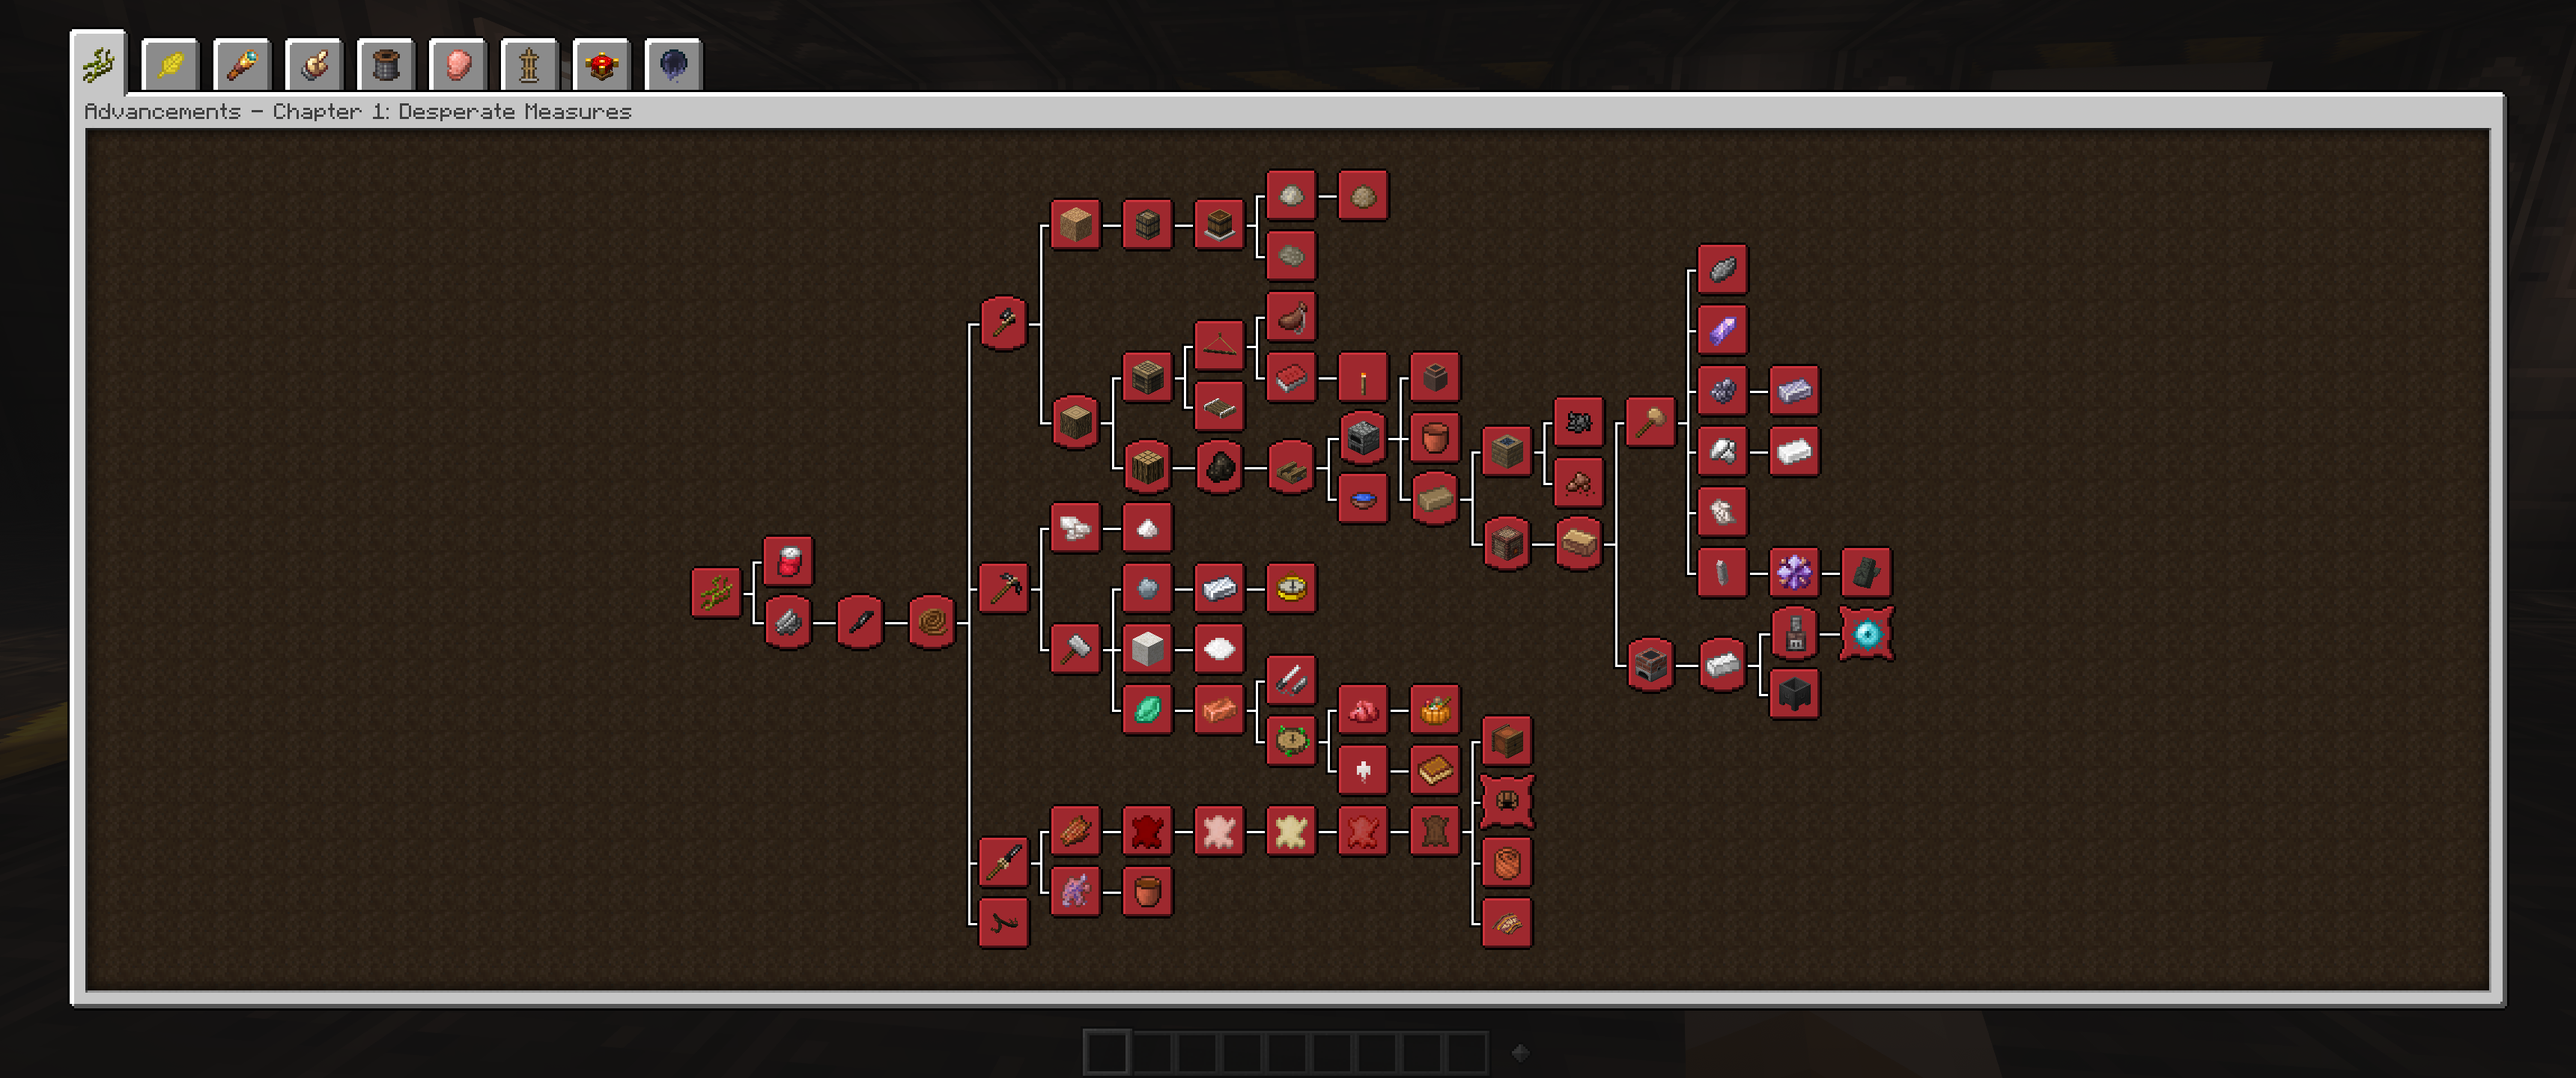
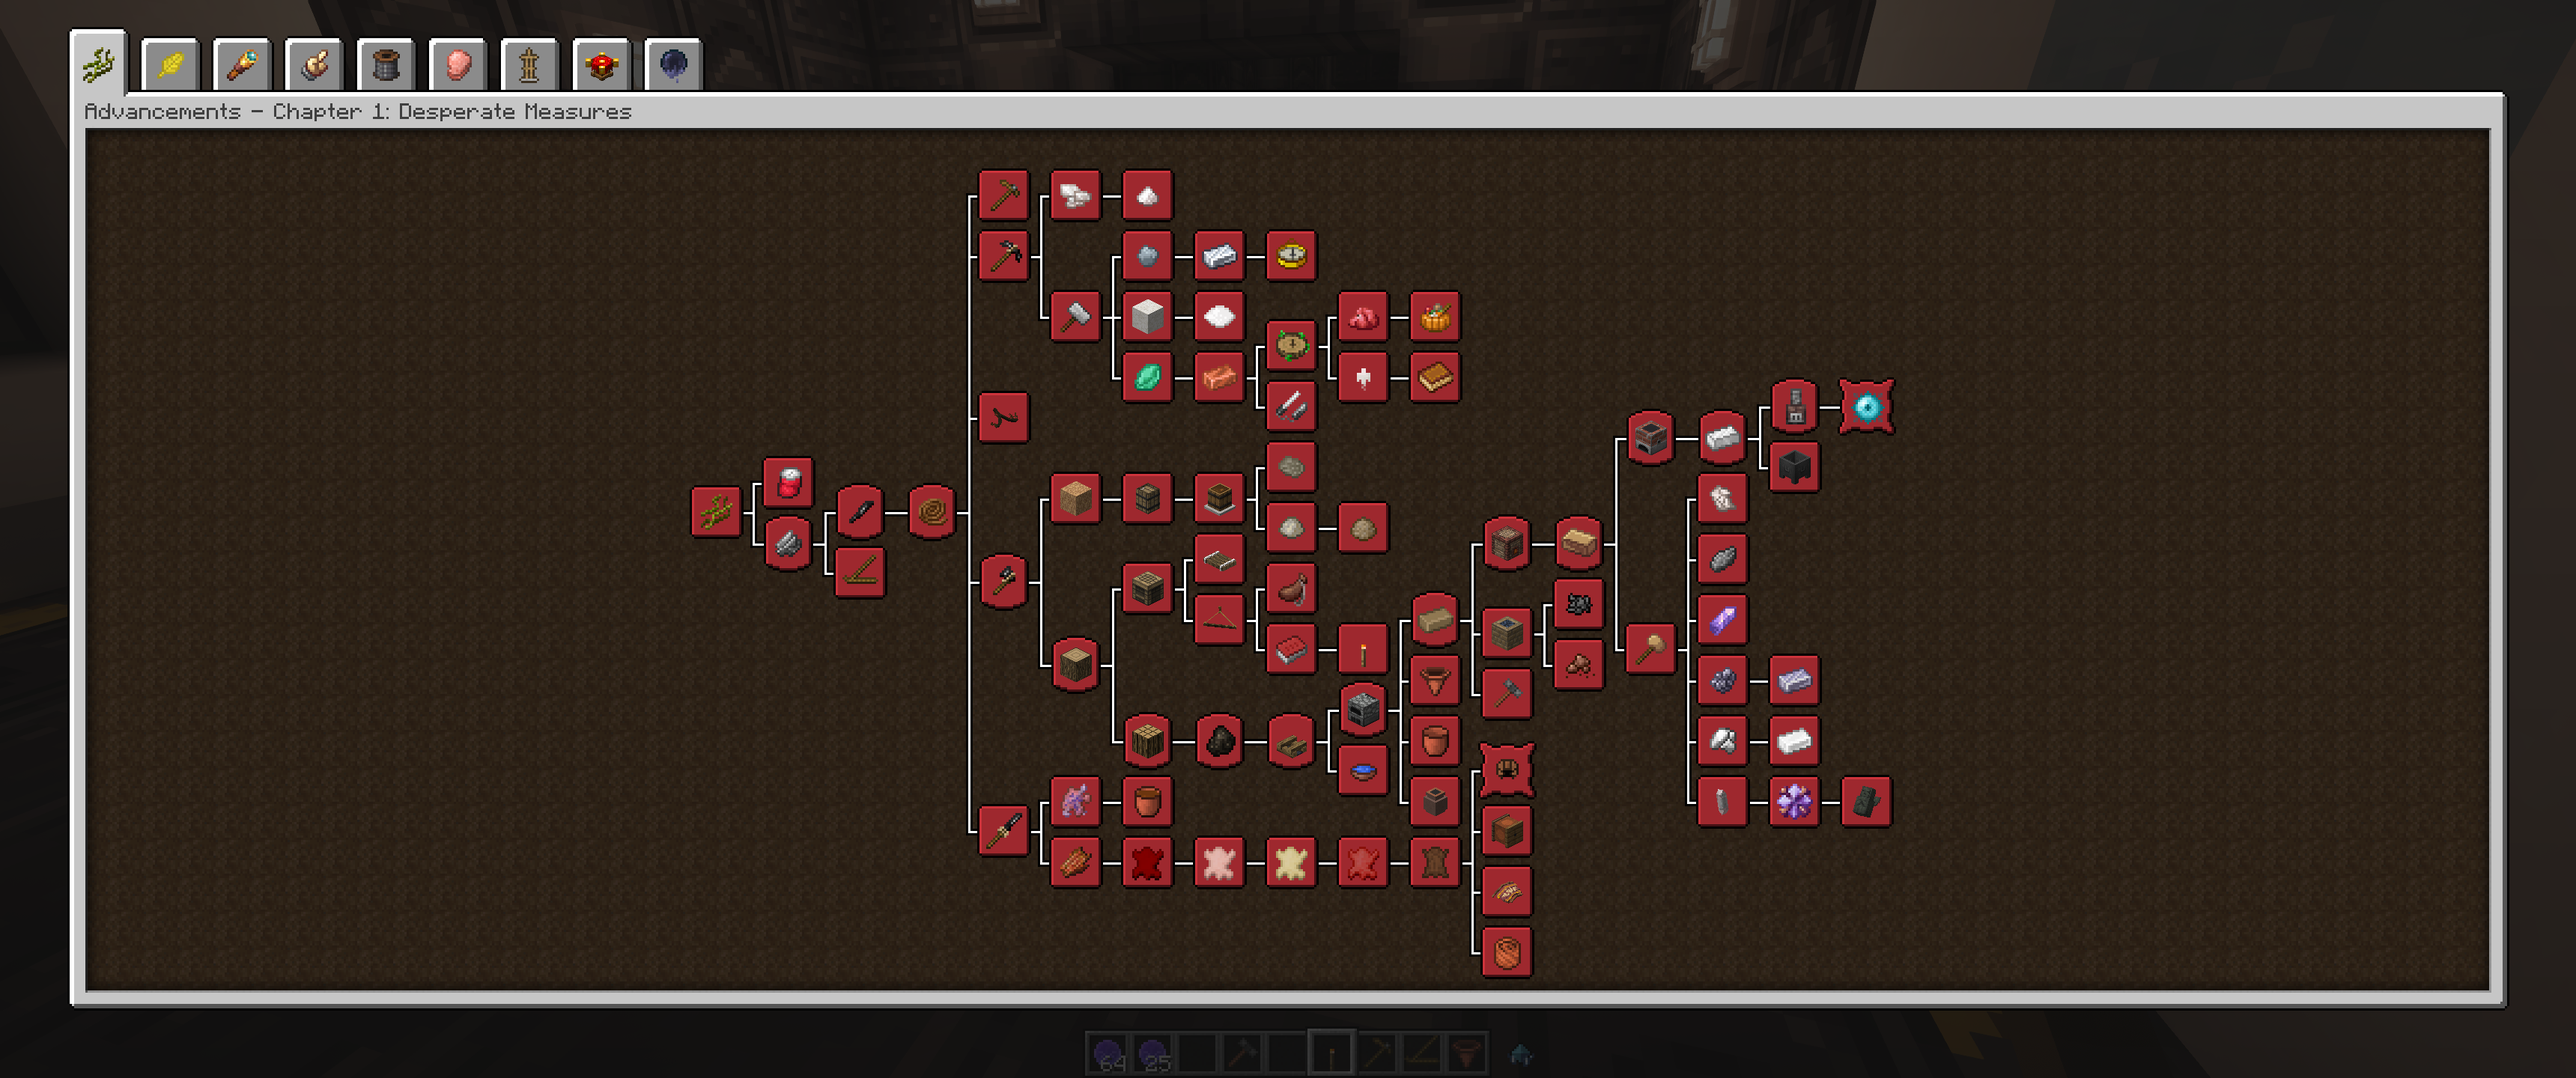
fix: fix chapter 1 advancements

diff --git a/kubejs/server_scripts/advancements/chapters/chapter_1.js b/kubejs/server_scripts/advancements/chapters/chapter_1.js
@@ -56,6 +56,11 @@ onEvent('server.datapack.high_priority', event => {
         frame: 'goal',
         children: [
           {
+            item: 'charcoal_pit:fire_starter',
+            title: '',
+            description: '',
+          },
+          {
             item: 'rankine:flint_knife',
             title: 'Crude Cutting Edge',
             description: 'Carve out a basic flint knife',
@@ -68,102 +73,15 @@ onEvent('server.datapack.high_priority', event => {
                 frame: 'goal',
                 children: [
                   {
+                    item: 'rankine:prospecting_stick',
+                    title: '',
+                    description: '',
+                  },
+                  {
                     item: 'hexerei:dowsing_rod',
                     title: 'Swamp Seeker',
                     description:
                       'Create a dowsing rod & use it to find a swamp',
-                  },
-                  {
-                    item: 'rankine:flint_spear',
-                    title: 'Primitive Piercer',
-                    description: 'Craft a crude flint spear',
-                    children: [
-                      {
-                        item: 'kubejs:rotten_brain',
-                        title: 'Rancid Relic',
-                        description: 'Collect a rotten brain from the undead',
-                        children: [
-                          {
-                            item: 'ceramicbucket:ceramic_bucket',
-                            nbt: '{Fluid:{Amount:1000,FluidName:"kubejs:tanning_fluid"}}',
-                            title: 'Putrid Potion',
-                            description: 'Brew tanning fluid from the brain',
-                          },
-                        ],
-                      },
-                      {
-                        item: 'minecraft:rotten_flesh',
-                        title: 'Undead Harvest',
-                        description: 'Gather some rotten flesh from the undead',
-
-                        children: [
-                          {
-                            item: 'kubejs:stitched_hide',
-                            title: 'Rotten Patchwork',
-                            description: 'Stitch the flesh together',
-                            children: [
-                              {
-                                item: 'kubejs:salted_hide',
-                                title: 'Salty Preservation',
-                                description: 'Salt the hide',
-                                children: [
-                                  {
-                                    item: 'kubejs:dried_hide',
-                                    title: 'Hanging to Harden',
-                                    description: 'Dry the salted hide',
-                                    children: [
-                                      {
-                                        item: 'kubejs:wet_tanned_hide',
-                                        title: 'Questionable Tanning',
-                                        description:
-                                          'Tan the dried hide with tanning fluid',
-                                        children: [
-                                          {
-                                            item: 'minecraft:leather',
-                                            title: 'Bound by Leather',
-                                            description:
-                                              'Dry the tanned hide and collect the finished leather',
-                                            children: [
-                                              {
-                                                item: 'paraglider:paraglider',
-                                                title: 'Wind Rider',
-                                                description:
-                                                  'Craft a paraglider',
-                                              },
-                                              {
-                                                item: 'upgrade_aquatic:bedroll',
-                                                title: "Slumber's Sanctuary",
-                                                description:
-                                                  'Craft a bedroll and regain your sanity',
-                                              },
-                                              {
-                                                icon: 'leather_helmet',
-                                                title:
-                                                  "Survivor's First Stitch",
-                                                frame: 'challenge',
-                                                description:
-                                                  'Craft your first piece of armor',
-                                                tag: 'im:armors/leather',
-                                              },
-                                              {
-                                                item: 'charcoal_pit:bellows',
-                                                title: "Bloomery's Lungs",
-                                                description:
-                                                  'Craft some bellows',
-                                              },
-                                            ],
-                                          },
-                                        ],
-                                      },
-                                    ],
-                                  },
-                                ],
-                              },
-                            ],
-                          },
-                        ],
-                      },
-                    ],
                   },
                   {
                     item: 'rankine:flint_pickaxe',
@@ -288,6 +206,98 @@ onEvent('server.datapack.high_priority', event => {
                     ],
                   },
                   {
+                    item: 'rankine:flint_spear',
+                    title: 'Primitive Piercer',
+                    description: 'Craft a crude flint spear',
+                    children: [
+                      {
+                        item: 'kubejs:rotten_brain',
+                        title: 'Rancid Relic',
+                        description: 'Collect a rotten brain from the undead',
+                        children: [
+                          {
+                            item: 'ceramicbucket:ceramic_bucket',
+                            nbt: '{Fluid:{Amount:1000,FluidName:"kubejs:tanning_fluid"}}',
+                            title: 'Putrid Potion',
+                            description: 'Brew tanning fluid from the brain',
+                          },
+                        ],
+                      },
+                      {
+                        item: 'minecraft:rotten_flesh',
+                        title: 'Undead Harvest',
+                        description: 'Gather some rotten flesh from the undead',
+
+                        children: [
+                          {
+                            item: 'kubejs:stitched_hide',
+                            title: 'Rotten Patchwork',
+                            description: 'Stitch the flesh together',
+                            children: [
+                              {
+                                item: 'kubejs:salted_hide',
+                                title: 'Salty Preservation',
+                                description: 'Salt the hide',
+                                children: [
+                                  {
+                                    item: 'kubejs:dried_hide',
+                                    title: 'Hanging to Harden',
+                                    description: 'Dry the salted hide',
+                                    children: [
+                                      {
+                                        item: 'kubejs:wet_tanned_hide',
+                                        title: 'Questionable Tanning',
+                                        description:
+                                          'Tan the dried hide with tanning fluid',
+                                        children: [
+                                          {
+                                            item: 'minecraft:leather',
+                                            title: 'Bound by Leather',
+                                            description:
+                                              'Dry the tanned hide and collect the finished leather',
+                                            children: [
+                                              {
+                                                item: 'paraglider:paraglider',
+                                                title: 'Wind Rider',
+                                                description:
+                                                  'Craft a paraglider',
+                                              },
+                                              {
+                                                item: 'upgrade_aquatic:bedroll',
+                                                title: "Slumber's Sanctuary",
+                                                description:
+                                                  'Craft a bedroll and regain your sanity',
+                                              },
+                                              {
+                                                icon: 'leather_helmet',
+                                                title:
+                                                  "Survivor's First Stitch",
+                                                frame: 'challenge',
+                                                description:
+                                                  'Craft your first piece of armor',
+                                                tag: 'im:armors/leather',
+                                              },
+                                              {
+                                                item: 'charcoal_pit:bellows',
+                                                title: "Bloomery's Lungs",
+                                                description:
+                                                  'Craft some bellows',
+                                              },
+                                            ],
+                                          },
+                                        ],
+                                      },
+                                    ],
+                                  },
+                                ],
+                              },
+                            ],
+                          },
+                        ],
+                      },
+                    ],
+                  },
+                  {
                     item: 'rankine:flint_axe',
                     title: 'Primitive Axe',
                     description: 'Craft a crude flint axe',
@@ -389,12 +399,22 @@ onEvent('server.datapack.high_priority', event => {
                                               'Craft a ceramic bucket',
                                           },
                                           {
+                                            item: 'brickhopper:brick_hopper',
+                                            title: '',
+                                            description: '',
+                                          },
+                                          {
                                             item: 'rankine:refractory_brick',
                                             title: "Kiln's Core",
                                             description:
                                               'Fire a refractory brick',
                                             frame: 'goal',
                                             children: [
+                                              {
+                                                item: 'immersiveengineering:hammer',
+                                                title: '',
+                                                description: '',
+                                              },
                                               {
                                                 item: 'rankine:beehive_oven_pit',
                                                 title: "Kiln's Foundation",
@@ -575,11 +595,6 @@ onEvent('server.datapack.high_priority', event => {
                                                   },
                                                 ],
                                               },
-                                              {
-                                                item: 'tconsturct:flint_and_brick',
-                                                title: '',
-                                                description: '',
-                                              },
                                             ],
                                           },
                                         ],
@@ -623,7 +638,7 @@ onEvent('server.datapack.high_priority', event => {
                                           'Craft a torch and light it on fire',
                                         icon: 'realistictorches:lit_torch',
                                         criteria: {
-                                          matchbox: {
+                                          lighting: {
                                             trigger:
                                               'minecraft:item_used_on_block',
                                             conditions: {
@@ -639,7 +654,22 @@ onEvent('server.datapack.high_priority', event => {
                                               },
                                             },
                                           },
+                                          crafting: {
+                                            trigger: 'inventory_changed',
+                                            conditions: {
+                                              items: [
+                                                {
+                                                  items: [
+                                                    'realistictorches:lit_torch',
+                                                  ],
+                                                },
+                                              ],
+                                            },
+                                          },
                                         },
+                                        requirements: [
+                                          ['lighting', 'crafting'],
+                                        ],
                                       },
                                     ],
                                   },

diff --git a/kubejs/server_scripts/functions.js b/kubejs/server_scripts/functions.js
@@ -226,6 +226,10 @@ function addJSON(event, stage, config, id, parent_id) {
 
   if (config.criteria) {
     json.criteria = config.criteria;
+
+    if (config.requirements) {
+      json.requirements = config.requirements;
+    }
   } else {
     json.criteria = {
       collect: {

diff --git a/docs/dev/bugs.md b/docs/dev/bugs.md
@@ -1,4 +1,4 @@
-# Bugs
+# Chapter 1 Bugs
 
 ## Recipes
 
@@ -24,6 +24,8 @@
 - [ ] galena block to lead block beehive oven
 - [ ] get rid of extra silver recipes
 - [ ] acanthite to silver block beehive oven
+- [ ] refractory brick recipe for engineers hammer
+- [ ] flint recipe for fire starter
 
 ## Spawning
 
@@ -31,11 +33,12 @@
 
 ## Advancements
 
-- [ ] torch advancement change
-- [ ] prospector not in advancement
-- [ ] fire starter in advancements
-- [ ] engineer's hammer in advancements
-- [ ] brick hopper in advancements
+- [x] torch advancement change
+- [x] prospector not in advancement
+- [x] fire starter in advancements
+- [x] engineer's hammer in advancements
+- [x] brick hopper in advancements
+- [x] make advancement page pretty
 
 ## Weird
 
@@ -46,22 +49,26 @@
 
 ## Staging
 
-- [ ] totems showing in chapter 1
+- [x] totems showing in chapter 1
 
 ## Client Hiding
 
-- [ ] hide farmersdelight flint knife
-- [ ] hide rankine dowsing rod
+- [x] hide farmersdelight flint knife
 
 ## Patchouli
 
-- [ ] patchouli handbook ores
+- [x] patchouli handbook ores
 
-  - [ ] kaolinite
-  - [ ] malachite
-  - [ ] cassiterite
-  - [ ] plumbago
-  - [ ] amethyst
-  - [ ] selenite
-  - [ ] galena
-  - [ ] acanthite
+  - [x] kaolinite
+  - [x] malachite
+  - [x] cassiterite
+  - [x] plumbago
+  - [x] amethyst
+  - [x] selenite
+  - [x] galena
+  - [x] acanthite
+  - [x] salt
+
+# Chapter 2 Bugs
+
+- [ ] incorporate dowsing rod into chapter 2
